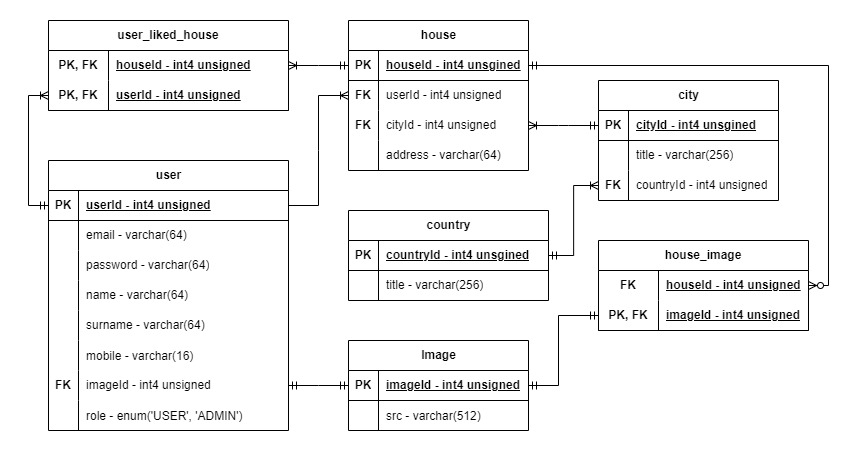
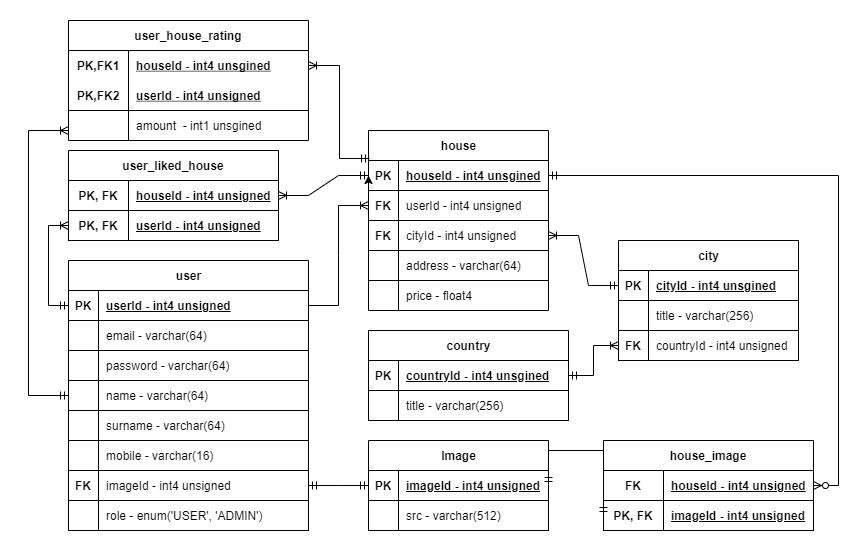
fix(102):  added missing price property and user rating table

diff --git a/Node, Express and SQL [92-106]/102 - express api with sql 2/sql/scripts/create-sql/create-houses.js b/Node, Express and SQL [92-106]/102 - express api with sql 2/sql/scripts/create-sql/create-houses.js
@@ -4,11 +4,12 @@ const createHouses = (houses, usersEmailIdMap, countryCityMap) => {
       host,
       location: { country, city },
       address,
-    }) => `(${usersEmailIdMap[host.email]}, ${countryCityMap[country][city]}, '${address}')`)
+      price
+    }) => `(${usersEmailIdMap[host.email]}, ${countryCityMap[country][city]}, '${address}', ${price.slice(0, -1)})`)
     .join(',\n');;
 
   return `
-insert into house(userId, cityId, address) values
+insert into house(userId, cityId, address, price) values
 ${housesInsertionRows};`;
 }
 
